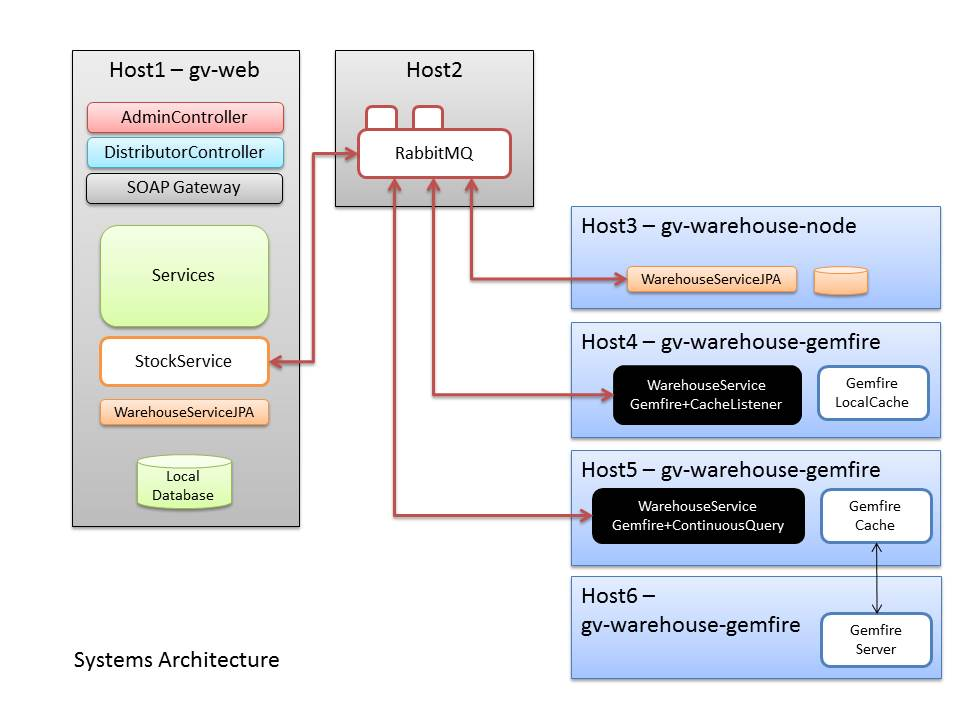
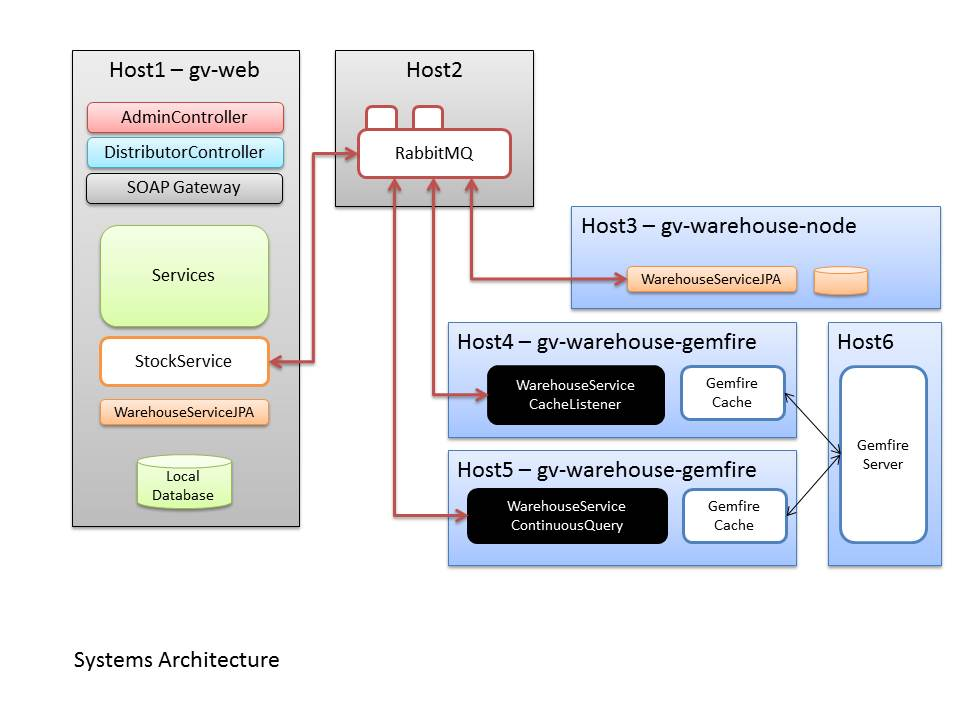
Added Gemfire docs

Changed region(s): [[0.4688, 0.4278, 1.0, 0.9472]]

diff --git a/doc/gemfire.html b/doc/gemfire.html
@@ -16,7 +16,233 @@ using Gemfire.
 There is nothing to install this time, since the Spring Data Gemfire support bundles the Gemfire components needed for testing. 
 </p>
 
+<h3>Architecture</h3>
+<p>
+I have built the Gemfire examples to run in a Gemfire client/server configuration. Spring Integration
+is used with RabbitMQ to connect the clients to the main (Host 1) server. There are two implementations:
+<ul>
+	<li>One uses a Gemfire CacheListener to generate stock alerts</li>
+	<li>The other uses a Gemfire Continuous Query to generate stock alerts</li>
+</ul>
 
+Both use Spring Data Gemfire to use the Gemfire cache as a persistent repository.
+</p>
+
+<div class="diagram">
+	<div class="caption">Gemfire CacheListener</div>
+	<img src="images/gemfireCacheListener.jpg"/>
+</div>
+
+<h3>Starting The Application</h3>
+<p>
+You can choose to run either the CacheListener or the ContinuousQuery clients, but not both at the same time.
+Start the Server first: right-click on <code>gv-warehouse-gemfire/src/main/java/gv.warehouse.gemfire/Server</code>
+and Run As/Java Application. Once the Server has started, do the same for whichever client you want to start.
+</p>
+
+<p>
+The clients are configured (in <code>gv-gemfire-node.properties</code>) to have the warehouse name "tokyo", so in the admin
+interface on Host1 you will need to add a new Remote Server called "tokyo". You can then add stock, place orders etc just
+as you did <a href="remoteNode.html">previously</a>.
+</p>
+
+<h3>Code Discussion</h3>
+<p>
+There are three parts to the implementation:
+</p>
+<ul>
+<li>The Spring Integration configuration</li>
+<li>The Spring Data Gemfire implementation of StockLevelRepository and the WarehouseServiceImpl which uses it</li>
+<li>The StockAlertEventSource implementations using Gemfire CacheListener or ContinuousQuery</li>
+</ul>
+
+<h4>Spring Integration Configuration</h4>
+<p>
+This part is easy. If you look at the configuration files under the <code>META-INF</code> directory, you will see that they
+are almost identical to the ones in the gv-warehouse-node project. The differences are:
+</p>
+<ol>
+<li>The <code>service-context.xml</code> defines a different implementation of WarehouseService - <code>gv.warehouse.gemfire.service.WarehouseServiceImpl</code></li>
+<li>The WarehouseService uses a repository which is found by component-scan in the gemfire/client context files (<code>gv.warehouse.gemfire.service.repository.StockLevelRepository</code>)</li>
+<li>The gemfire/client context files define the appropriate StockAlertEventSource to send StockAlerts to the stockAlertsGateway</li>
+</ol>
+
+<h4>Spring Data Gemfire</h4>
+<p>
+If you compare the implementations WarehouseServiceImpl in the gv-warehouse-gemfire and gv-warehouse-jpa projects
+you will see that they are almost identical. The difference is that the gemfire implementation does not also
+implement StockAlertEventSource. This is because in this project I wanted to take advantage of Gemfire's built-in
+facilities for raising events: Cache Listeners and Continuous Queries.
+</p>
+
+<p>
+The StockLevelRepository and StockLevelEntity in the Gemfire project are different to those in the JPA project.
+In the JPA project the entity used a generated (<code>long</code>) value for its id, and the repository needed to have a method
+defined to retrieve stock levels by warehouseName and productId:
+</p>
+<pre class="java">
+public interface StockLevelRepository extends CrudRepository&lt;StockLevel, Long&gt; {
+	
+	public StockLevel findByWarehouseNameAndProductId(String warehouseName, Long productId);
+
+}
+</pre>
+
+<p>
+In the Gemfire project we must supply a unique key for entity ids, since a Gemfire cache is just a 
+
+<code>Map&lt;K, v&gt;</code> to application code.
+
+So there is an Id class:
+</p>
+<pre class="java">
+@Region("stock_levels")
+public class StockLevel implements Serializable {
+	private static final long serialVersionUID = 1L;
+
+	@org.springframework.data.annotation.Id
+	private final StockLevel.Id id;
+	
+	private final int qty;
+	private final int oldQty;
+	
+	...
+	...
+	...
+	
+	public static class Id implements Serializable {
+		
+		private String warehouseName;
+		
+		private Long productId;
+		...
+		...
+		}
+}
+
+</pre>
+<p>
+Notice how classes which are going to be stored by Gemfire must be serializable, and the equals() and hashCode()
+methods are also implemented so Gemfire can compare objects properly.
+</p>
+
+<p>
+Having the Id class using warehouseName and productId means that there is no need for a special finder
+method on the repository, the WarehouseServiceImpl can just call the repository's <code>findOne()</code> method
+which is supplied for us automatically when we extend CRUDRepository.
+
+<pre class="java">
+public interface StockLevelRepository extends CrudRepository&lt;StockLevel, StockLevel.Id&gt; {
+	
+}
+</pre>
+</p>
+
+<h4>Generating StockAlerts Using Gemfire CacheListener</h4>
+<p>
+Gemfire is designed to run in a distributed manner, where multiple cache nodes can replicate all or part of other nodes' data.
+When data changes in a cache, Gemfire send events to the other participating caches so that they can update their local
+copies. Client applications can register to receive these events by implementing a Gemfire CacheListener.
+</p>
+
+<p>
+The <code>StockChangeListener</code> class is an implementation of <code>CacheListenerAdapter</code> which uses the
+<code>afterCreate(), afterDestroy(), afterUpdate() and afterInvalidate()</code> callbacks to generate <code>StockAlerts</code>.
+</p>
+
+<p>
+The listener is registered with the cache in <code>gemfire/client/cl-cache-config.xml</code>, and the <code>stockAlertsGateway</code>
+is injected into it. Spring Integration takes care of turning the <code>handleStockAlert()</code> call on the gateway into a message send
+to the RabbitMQ stockAlertsExchange.
+</p>
+
+<pre class="xml">
+		
+	&lt;gfe-data:repositories base-package="gv.warehouse.gemfire"&gt;&lt;/gfe-data:repositories&gt;
+	
+	&lt;gfe:pool id="clientPool" subscription-enabled="true"&gt;
+		&lt;gfe:server host="localhost" port="40404"/&gt;
+	&lt;/gfe:pool&gt;
+	
+	&lt;gfe:client-cache id="clientCache" pool-name="clientPool" ready-for-events="true"/&gt;
+	
+	&lt;gfe:client-region id="stock_levels" key-constraint="gv.warehouse.gemfire.entity.StockLevel.Id" cache-ref="clientCache"&gt;
+		&lt;gfe:cache-listener ref="stockListener" /&gt;
+		&lt;gfe:regex-interest pattern=".*" receive-values="true" result-policy="KEYS_VALUES"/&gt;
+	&lt;/gfe:client-region&gt;
+	
+	&lt;bean id="stockListener" class="gv.warehouse.gemfire.listener.StockChangeListener"&gt;
+		&lt;property name="stockAlertListener" ref="stockAlertsGateway"/&gt;
+		&lt;property name="stockAlertThreshold" value="10"/&gt;
+	&lt;/bean&gt;
+</pre>
+<p>
+Notice the <code>&lt;gfe:regex-interest &gt;</code> element in the configuration. This is a way of telling the cache
+which event types should be delivered to the listener, and helps to limit the number of events the listener has to handle.
+Another way of restricting the events you have to process is to use a Gemfire <code>ContinuousQuery</code>.
+</p>
+
+<h4>Generating StockAlerts Using Gemfire ContinuousQueries</h4>
+<p>
+ContinuousQueries provide a way of monitoring the cache and only delivering events to a client when particular entities are affected.
+They are configured by writing a simple Gemfire query such as
+<pre>
+SELECT * FROM /products WHERE sku = 'interesting'
+</pre>
+</p>
+
+<p>
+The configuration file <code>gemfire/client/cq-cache-config.xml</code> configures a CQListener to receive
+events for all updates to the /stock_levels region:
+<pre class="xml">
+...
+...
+	&lt;gfe:cq-listener-container id="cq-listener-container" cache="clientCache"&gt;
+		&lt;gfe:listener ref="cqListener"
+			query="select * from /stock_levels" /&gt;
+	&lt;/gfe:cq-listener-container&gt;
+
+	&lt;bean id="cqListener" class="gv.warehouse.gemfire.listener.CQListener"&gt;
+		&lt;property name="stockAlertListener" ref="stockAlertsGateway"/&gt;
+		&lt;property name="stockAlertThreshold" value="10"/&gt;
+	&lt;/bean&gt;
+...
+...
+</pre>
+</p>
+
+<p>
+If you look at the code for the CQListener you will see that whereas in the CacheListener we had access to the
+previous value of a StockLevel, the CQListener only has access to the current value:
+<pre class="java">
+	public void handleEvent(CqEvent event) {
+		
+		if(event.getBaseOperation().isCreate()) {
+			
+			StockLevel level = (StockLevel) event.getNewValue();
+			raiseStockAlert(level.getId(), 0, level.getQty());
+			
+		} else if(event.getBaseOperation().isUpdate()) {
+			
+			StockLevel level = (StockLevel) event.getNewValue();
+			
+			raiseStockAlert(level.getId(), level.getOldQty(), level.getQty());
+			
+		} else if(event.getBaseOperation().isDestroy()) {
+
+			StockLevel level = (StockLevel) event.getNewValue();
+			
+			raiseStockAlert(level.getId(), level.getQty(), 0);
+		}
+	}
+</pre>
+
+Because of this I modified StockLevel, added the field <code>oldQty</code> and modified WarehouseServiceImpl
+to update the field appropriately.
+</p>
+
+<p>
+That's it for this post.
 
 </body>
 

diff --git a/gv-warehouse-gemfire/src/main/java/gv/warehouse/gemfire/CLClient.java b/gv-warehouse-gemfire/src/main/java/gv/warehouse/gemfire/CLClient.java
@@ -11,7 +11,10 @@ public class CLClient {
 	public static void main(String[] args) throws IOException,
 			InterruptedException {
 		
-		ApplicationContext context = new ClassPathXmlApplicationContext("gemfire/client/cl-cache-config.xml");
+		ApplicationContext context = new ClassPathXmlApplicationContext(
+				"META-INF/spring/root-context.xml",
+				"META-INF/gemfire/client/cl-cache-config.xml"
+		);
 		
 		System.out.println("CacheListener Client started");
 		
